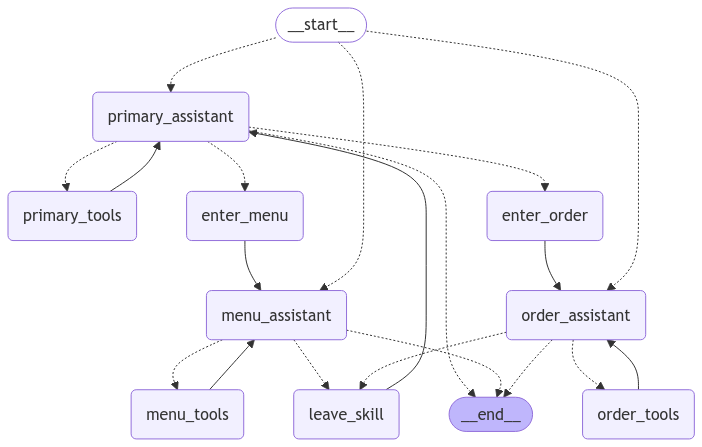
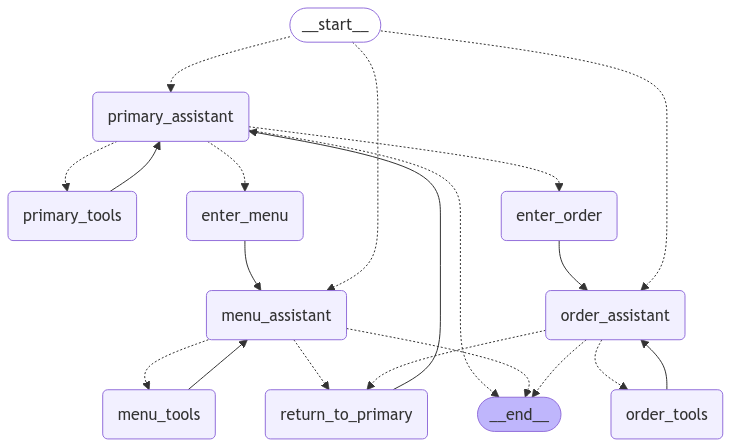
Update tool descriptions and prompt texts

diff --git a/chatbot/graph.py b/chatbot/graph.py
@@ -13,7 +13,7 @@ from agents import primary_assistant_prompt, primary_assistant_tools, menu_assis
 load_dotenv()
 
 
-# llm = ChatOpenAI(model='gpt-4o-mini')
+# llm = ChatOpenAI(model='gpt-4o')
 llm = ChatAnthropic(model='claude-3-5-haiku-latest')
 
 workflow = StateGraph(State)
@@ -74,12 +74,12 @@ def route_menu_assistant(state: State):
 
     tool_calls = state['messages'][-1].tool_calls
     if any(tc['name'] == CompleteOrEscalate.__name__ for tc in tool_calls):
-        return 'leave_skill'
+        return 'return_to_primary'
 
     return 'menu_tools'
 
 
-workflow.add_conditional_edges('menu_assistant', route_menu_assistant, ['menu_tools', 'leave_skill', END])
+workflow.add_conditional_edges('menu_assistant', route_menu_assistant, ['menu_tools', 'return_to_primary', END])
 workflow.add_edge('menu_tools', 'menu_assistant')
 
 
@@ -99,18 +99,18 @@ def route_order_assistant(state: State):
 
     tool_calls = state['messages'][-1].tool_calls
     if any(tc['name'] == CompleteOrEscalate.__name__ for tc in tool_calls):
-        return 'leave_skill'
+        return 'return_to_primary'
 
     return 'order_tools'
 
 
-workflow.add_conditional_edges('order_assistant', route_order_assistant, ['order_tools', 'leave_skill', END])
+workflow.add_conditional_edges('order_assistant', route_order_assistant, ['order_tools', 'return_to_primary', END])
 workflow.add_edge('order_tools', 'order_assistant')
 
 
 # back to primary assistant
-workflow.add_node('leave_skill', to_primary_assistant)
-workflow.add_edge('leave_skill', 'primary_assistant')
+workflow.add_node('return_to_primary', to_primary_assistant)
+workflow.add_edge('return_to_primary', 'primary_assistant')
 
 
 memory = MemorySaver()

diff --git a/chatbot/tools/delegation_tools.py b/chatbot/tools/delegation_tools.py
@@ -6,10 +6,7 @@ class MenuInfoTool(BaseModel):
 
 
 class OrderManagementTool(BaseModel):
-    """
-    Use this tool when a customer wants to place an order, modify an existing one, or needs assistance with the ordering process.
-    It can also be used to provide support for order-related issues, such as modifications or cancellations.
-    """
+    """Use this tool when a customer wants to place an order, modify an existing one, cancel an order, or needs assistance with the ordering process."""
 
 
 class CompleteOrEscalate(BaseModel):
@@ -17,21 +14,3 @@ class CompleteOrEscalate(BaseModel):
     A tool to mark the current task as resolved or to escalate it for further handling when additional input or action is required.
     Use this when the task is completed successfully or cannot proceed due to specific reason.
     """
-    completed: bool = True
-    reason: str
-
-    class Config:
-        json_schema_extra = {
-            'example': {
-                'cancel': True,
-                'reason': 'User changed their mind about the current task.'
-            },
-            'example 2': {
-                'cancel': True,
-                'reason': 'I have fully completed the task.'
-            },
-            'example 3': {
-                'cancel': False,
-                'reason': 'An error occurred when calling the function.'
-            }
-        }

diff --git a/chatbot/state.py b/chatbot/state.py
@@ -41,9 +41,8 @@ def create_entry_node(assistant_name: str, new_assistant: str) -> Callable:
             'messages': [
                 ToolMessage(
                     content=(f"The system has switched to the {assistant_name}. Reflect on the above conversation. "
-                            "The customer's intent is unsatisfied. Utilize the provided tools to address the user's request effectively. "
-                            "If the user's request cannot be fulfilled or they change their intent, invoke 'CompleteOrEscalate' without generating any additional text. "
-                            "Do not respond to this message directly. Focus on executing the necessary actions to fulfill the request."),
+                             "Do not respond to this message directly. Focus solely on using the available tools to assist the customer and fulfill their request. "
+                             "If the request cannot be completed or the customer changes their intent, invoke 'CompleteOrEscalate' without generating any additional text."),
                     tool_call_id=tool_call_id,
                 )
             ],

diff --git a/chatbot/agents/order_assistant.py b/chatbot/agents/order_assistant.py
@@ -5,9 +5,10 @@ from prompts import IDENTITY, ADDITIONAL_GUARDRAILS
 
 order_assistant_prompt = ChatPromptTemplate([
     ('system', IDENTITY),
-    ('user', "Use are responsible for placing orders according to customers' requests. " \
-             "Your job is to collect required order information and create order using provided functions. " \
-             "If the user needs help, and none of your tools are appropriate for it, then 'CompleteOrEscalate' the dialog. " \
+    ('user', "Your role is to assist customers in placing orders based on their requests. " \
+             "You are responsible for gathering the necessary order information and using the available tools to process the order. " \
+             "If the user requests assistance beyond the scope of your role, responsibilities, or available tools, " \
+             "you should call 'CompleteOrEscalate' to escalate the conversation for further handling. "
              + ADDITIONAL_GUARDRAILS),
     ('assistant', "Understood"),
     ('placeholder', '{messages}'),

diff --git a/chatbot/agents/menu_assistant.py b/chatbot/agents/menu_assistant.py
@@ -5,8 +5,10 @@ from prompts import IDENTITY, ADDITIONAL_GUARDRAILS
 
 menu_assistant_prompt = ChatPromptTemplate([
     ('system', IDENTITY),
-    ('user', "Your role is to respond to customer queries related to the menu, ingredients, or other food-related topics. " \
-             "If the user requests assistance beyond the scope of your tools, escalate the conversation using 'CompleteOrEscalate.' "
+    ('user', "Your role is to answer customer questions about the menu, ingredients, or any other food-related topics. " \
+             "You are expected to use the provided tools to assist customers effectively. " \
+             "If the user requests assistance beyond the scope of your role, responsibilities, or available tools, " \
+             "you should call 'CompleteOrEscalate' to escalate the conversation for further handling. "
              + ADDITIONAL_GUARDRAILS),
     ('assistant', "Understood"),
     ('placeholder', '{messages}'),

diff --git a/chatbot/agents/primary_assistant.py b/chatbot/agents/primary_assistant.py
@@ -6,8 +6,8 @@ from prompts import IDENTITY, ADDITIONAL_GUARDRAILS
 primary_assistant_prompt = ChatPromptTemplate([
     ('system', IDENTITY),
     ('user', "Your role is to warmly welcome customers. " \
-             "You are responsible for answering customer inquiries regarding the pizzeria. "
-             "If the customer needs help with menu-related inquiries or placing an order, you should use the relevant tool."
+             "You are responsible for answering customer inquiries regarding the pizzeria. " \
+             "If the customer needs help with menu-related inquiries or placing an order, you should use the relevant tool. "
              + ADDITIONAL_GUARDRAILS),
     ('assistant', "Understood"),
     ('placeholder', '{messages}'),
